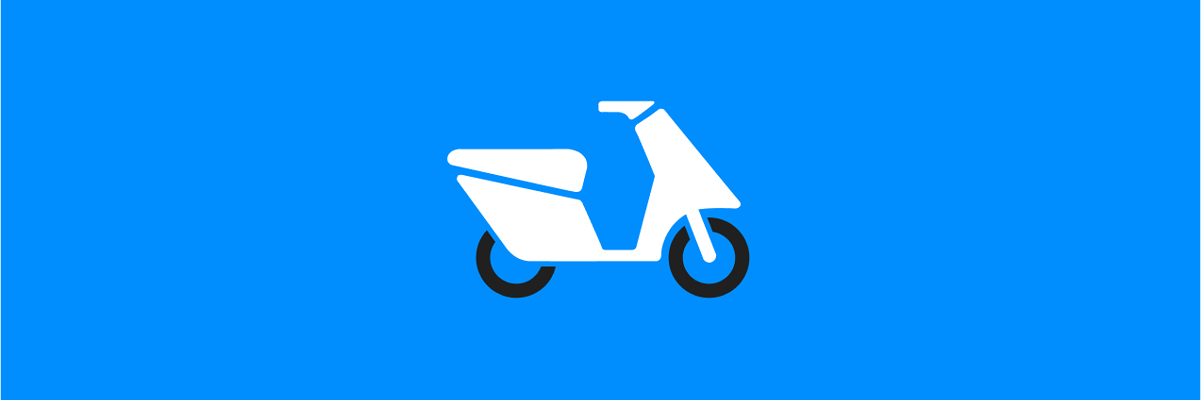
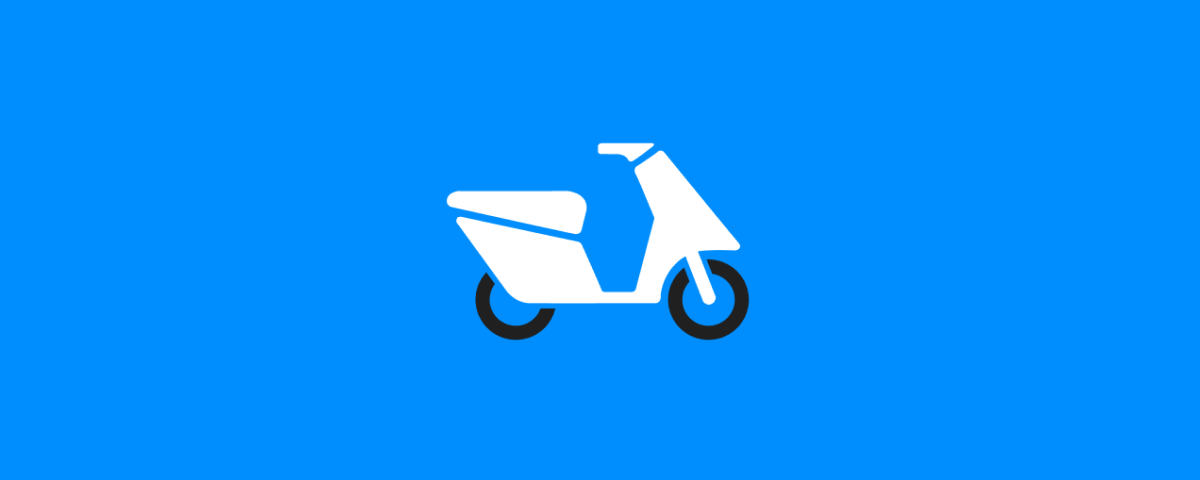
made images in landing page bigger

Changed region(s): [[0.37, 0.51, 0.6475, 0.75], [0.4933, 0.24, 0.6167, 0.48], [0.37, 0.36, 0.4933, 0.51]]

diff --git a/john/src/App.css b/john/src/App.css
@@ -212,7 +212,7 @@
 
 .project-image {
   width: 100%;
-  height: 400px;
+  height: 640px;
   object-fit: cover;
   display: block;
   transition: transform 0.3s ease, filter 0.3s ease;
@@ -440,7 +440,7 @@
   }
   
   .project-image {
-    height: 250px;
+    height: 400px;
   }
   
   .organizations {
